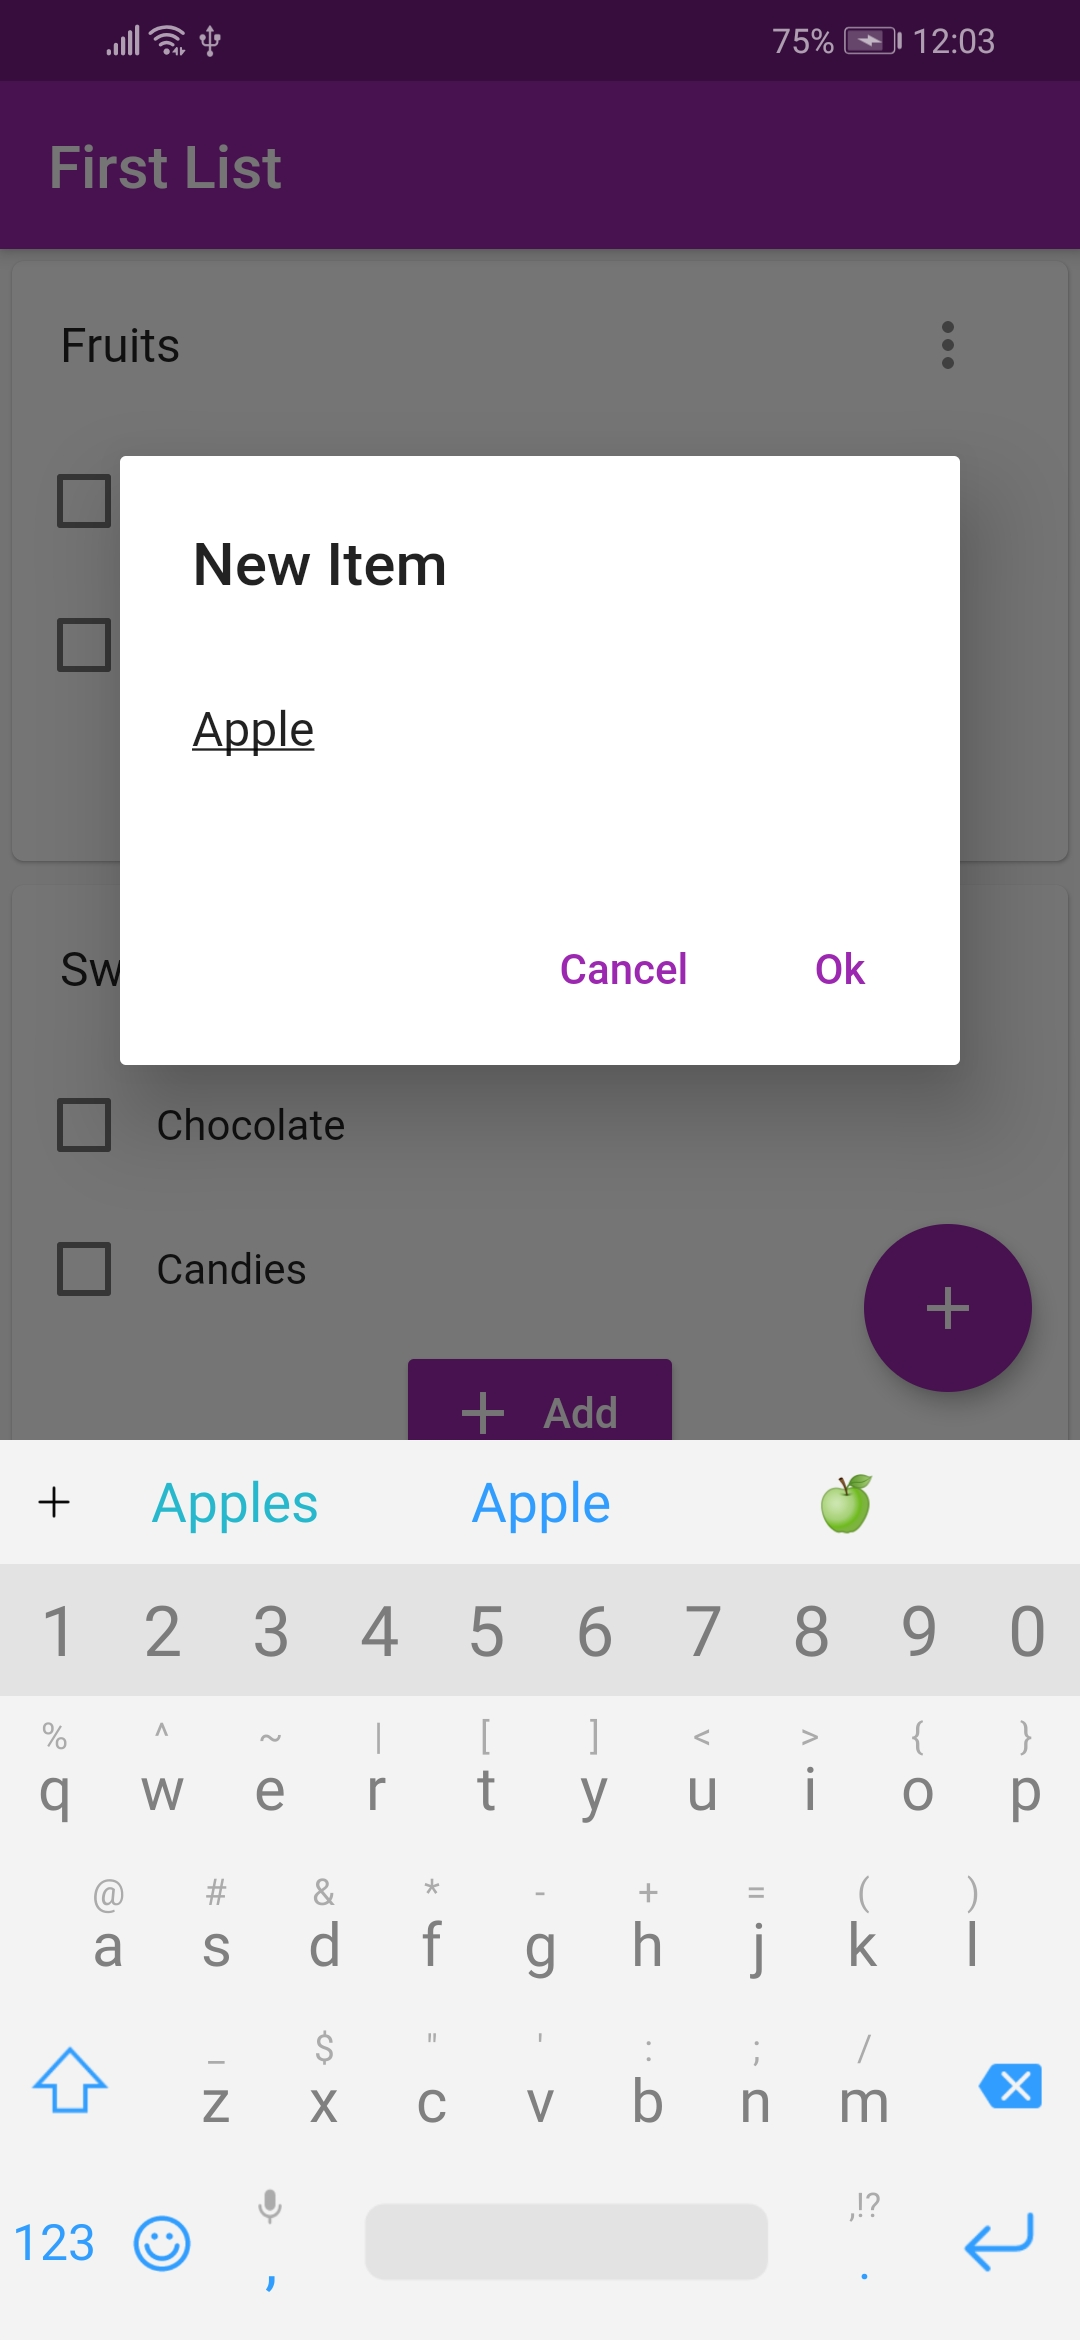
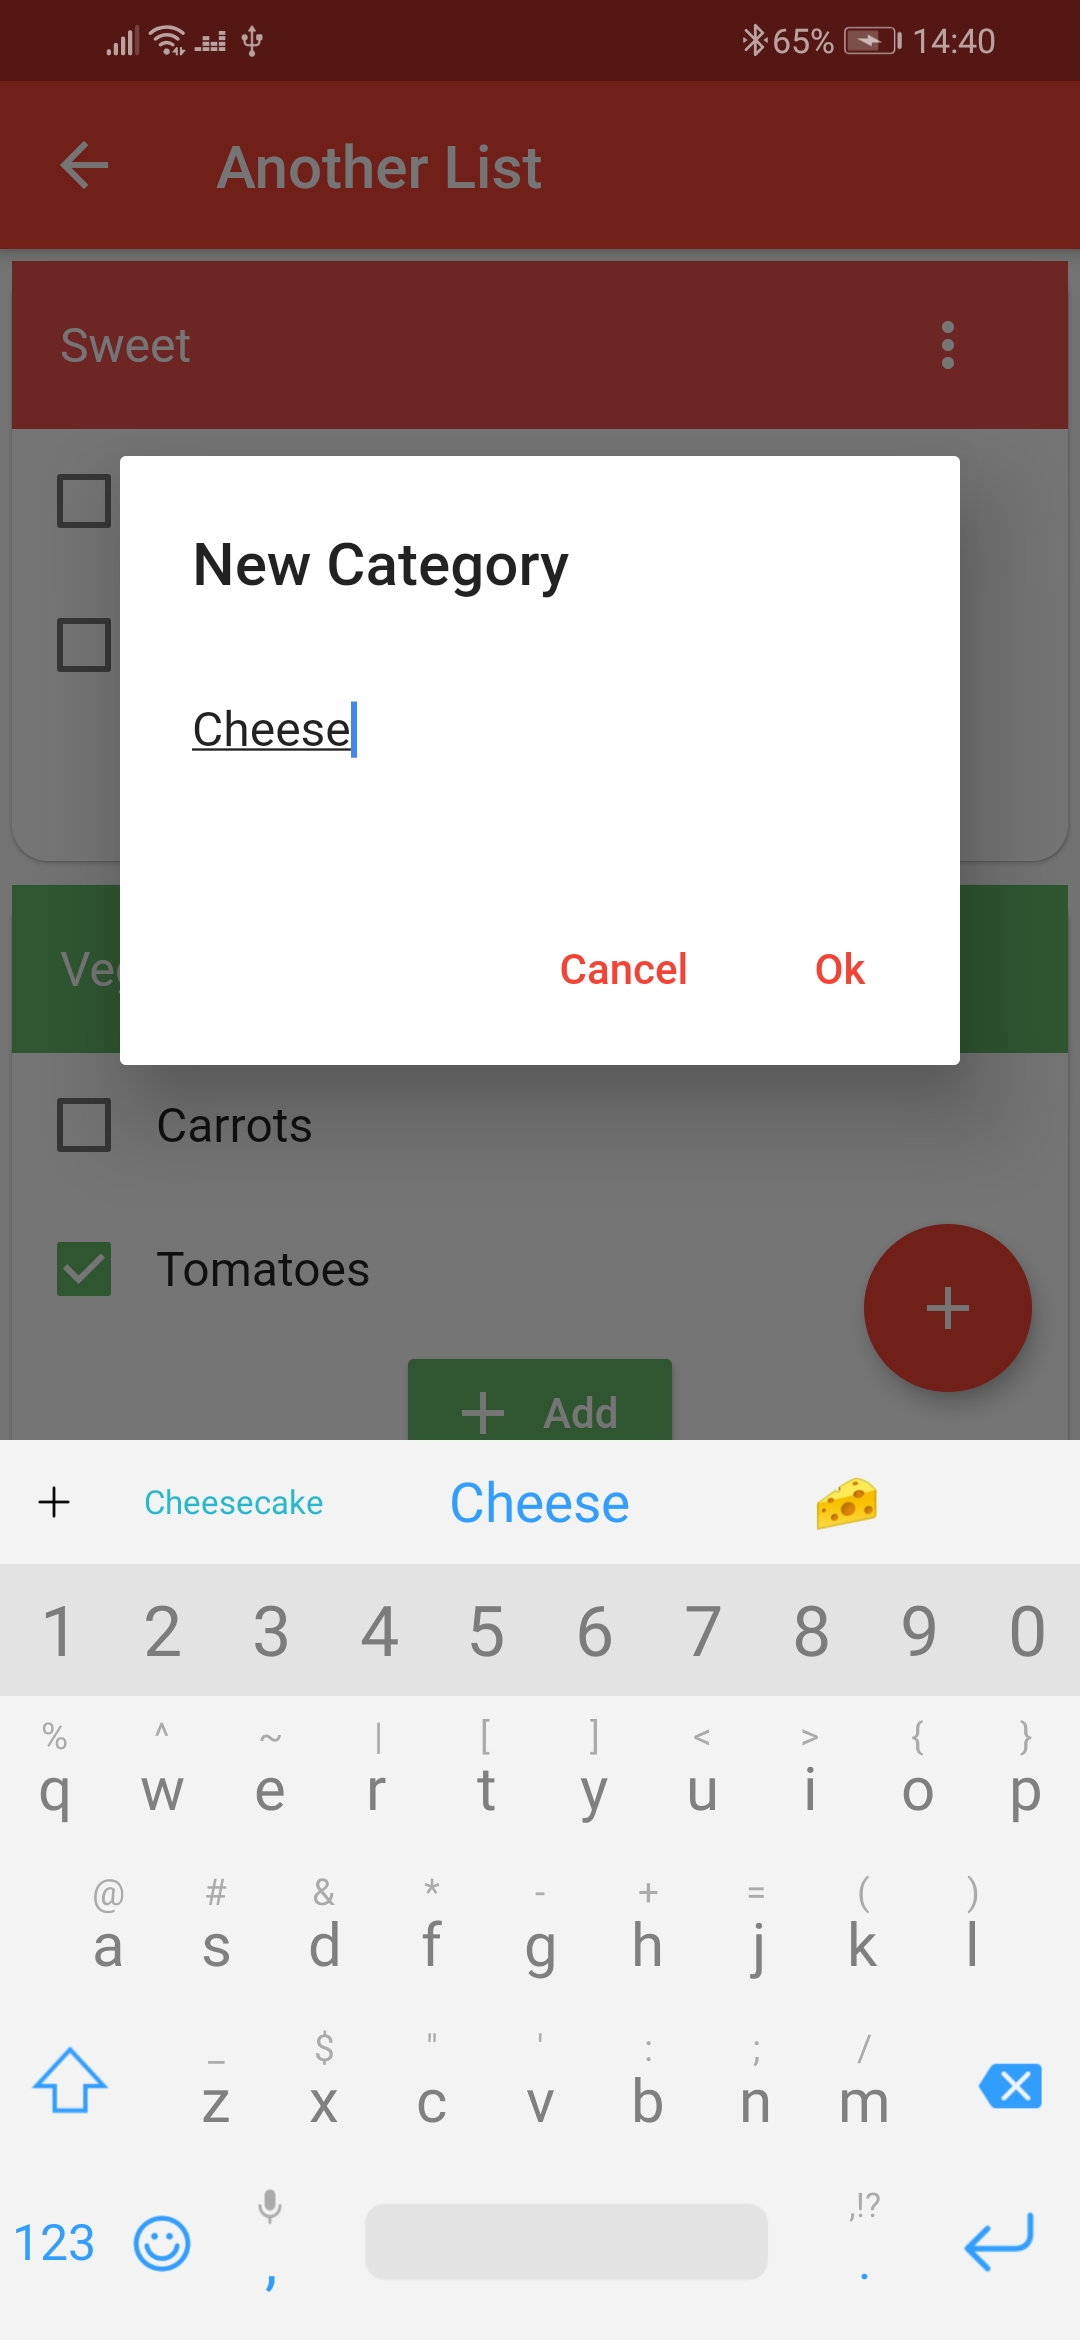
Updated README and screenshots

diff --git a/README.md b/README.md
@@ -4,13 +4,17 @@ A tiny shopping list
 
 ## Screenshots
 
-![A tiny shopping list](res/list.jpg "A tiny shopping list")
+![A tiny shopping list](res/list_nocolor.jpg "A tiny shopping list")
 ![List menu](res/menu.jpg "List menu")
 ![Add items and categories](res/add.jpg "Add items and categories")
-![Remove items and categories](res/rm.jpg "Remove items and categories")
+![Swipe to remove items and categories](res/rm.jpg "Swipe to remove items and categories")
+![Change color of everything](res/color.jpg "Change color of everything")
+![Beautiful and simple shopping list](res/list_color.jpg "Beautiful and simple shopping list")
 
 ## Features
 
-- Fast & Easy to use
+- Fast & easy to use
 - Categories to order items
 - A menu for multiple lists
+- Change colors
+- Free, open source & without ads
